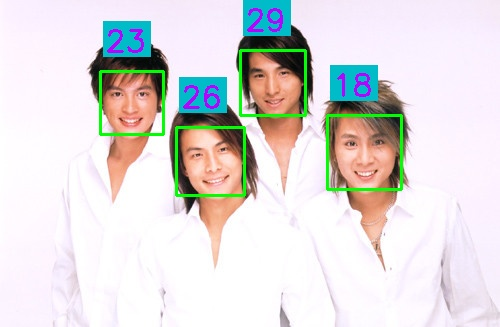
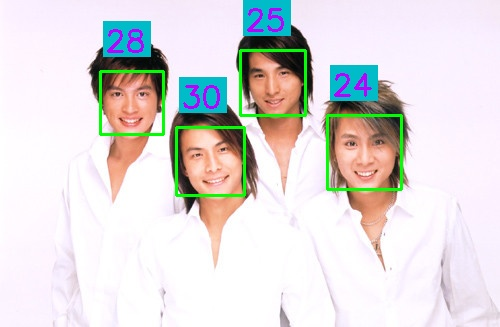
人臉辨識第三階段, 系統優化, 直接顯示在網頁上

diff --git a/HowOldAreYou/index.py b/HowOldAreYou/index.py
@@ -1,5 +1,5 @@
 import cv2
-from flask import Flask, render_template, request, redirect
+from flask import Flask, render_template, request, redirect, url_for
 import random
 
 app = Flask(__name__)
@@ -26,10 +26,10 @@ def upload():
 
         faces=faceCascade.detectMultiScale(
             gray,
-            scaleFactor = 1.2,
-            minNeighbors = 5,
-            minSize = (30, 30),
-            flags = cv2.CASCADE_SCALE_IMAGE
+            scaleFactor=1.2,
+            minNeighbors=5,
+            minSize=(30, 30),
+            flags=cv2.CASCADE_SCALE_IMAGE
         )
         # faceCascade.detectMultiScale 辨識人臉的方法;
         # scaleFactor=1 依據不同大小去對圖片進行掃描特徵比對, 所謂的膨脹係數膨脹係數越大越精確
@@ -39,7 +39,7 @@ def upload():
 
         for (x, y, w, h) in faces:
             age = random.randint(18, 30)  # 年齡設定範圍
-            cv2.rectangle(image, (x + 3, y - 15), (x + 50, y - 50), (200, 187, -1), -1) 　
+            cv2.rectangle(image, (x + 3, y - 15), (x + 50, y - 50), (200, 187, -1), -1)
             # 放年齡文字的地方
             cv2.putText(image, str(age), (x + 5, y - 20), cv2.FONT_HERSHEY_SIMPLEX, 1, (255,0, 187), 2)
             # 塞進年齡, cv2.FONT_HERSHEY_SIMPLEX 字體形式
@@ -52,7 +52,7 @@ def upload():
         # 第三个参数针对特定的格式： 对于JPEG，其表示的是图像的质量，用0-100的整数表示，默认为95
         newImage = './static/images/' + file.filename
 
-        return redirect(url_for('index', filename = newImage, result = len(faces)))
+        return redirect(url_for('index', filename=newImage, result=len(faces)))
         # 重新定向到 index 的地方, 帶出檔名, result 看是否辨識出人臉: 0 代表 fail
 
         return render_template('index.html')
